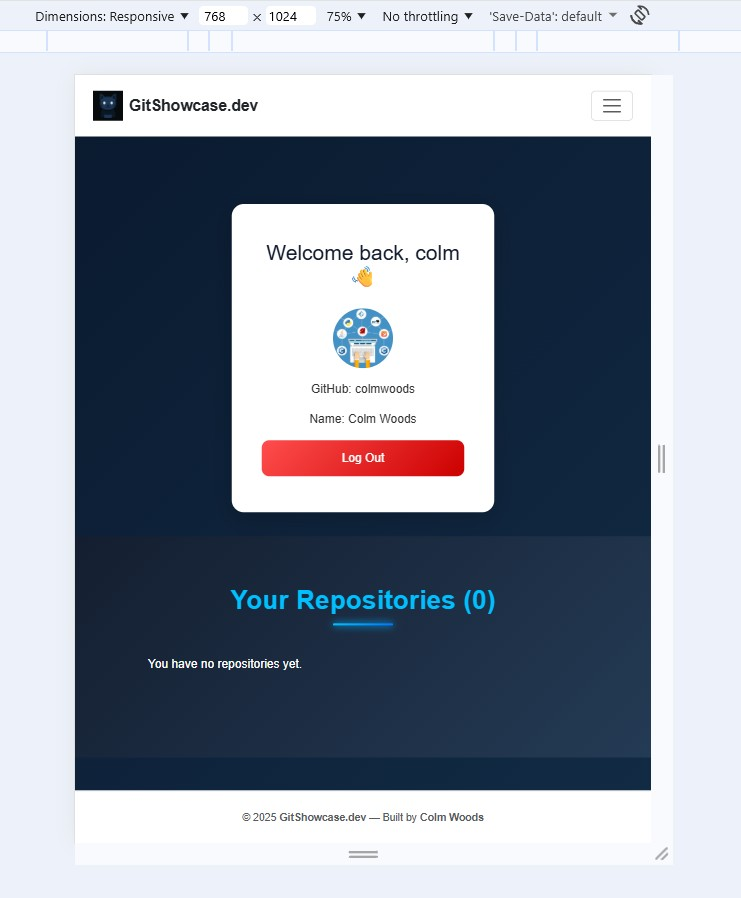
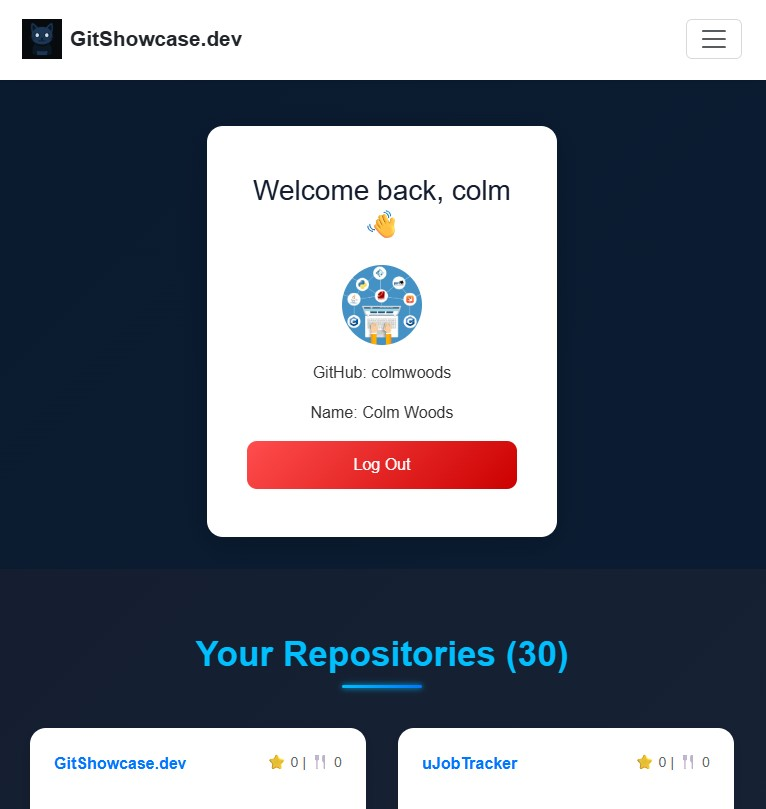
Add rest of ss for my Responsiveness section

diff --git a/TESTING.md b/TESTING.md
@@ -128,7 +128,7 @@ Every page was verified for:
 
 To visually demonstrate how GitShowcase.dev appears across multiple devices, I generated a responsive mockup using **ami.responsivedesign.is**.
 
-![screenshot](documentation/responsiveness/mockup.jpg)
+![screenshot](documentation/mockup.jpg)
 
 *Note: This mockup is for presentation only. All formal responsiveness testing was carried out using physical devices and developer tools, as shown in the table below.*
 
